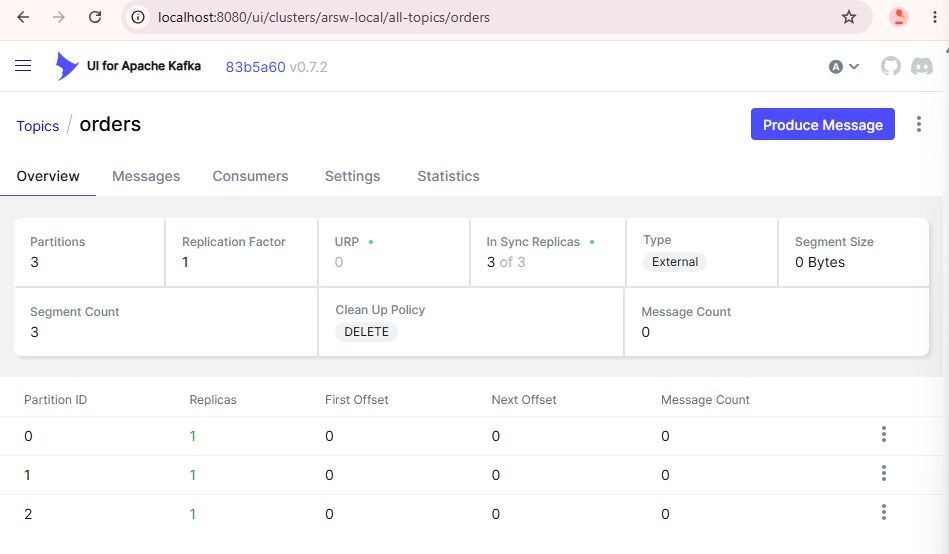
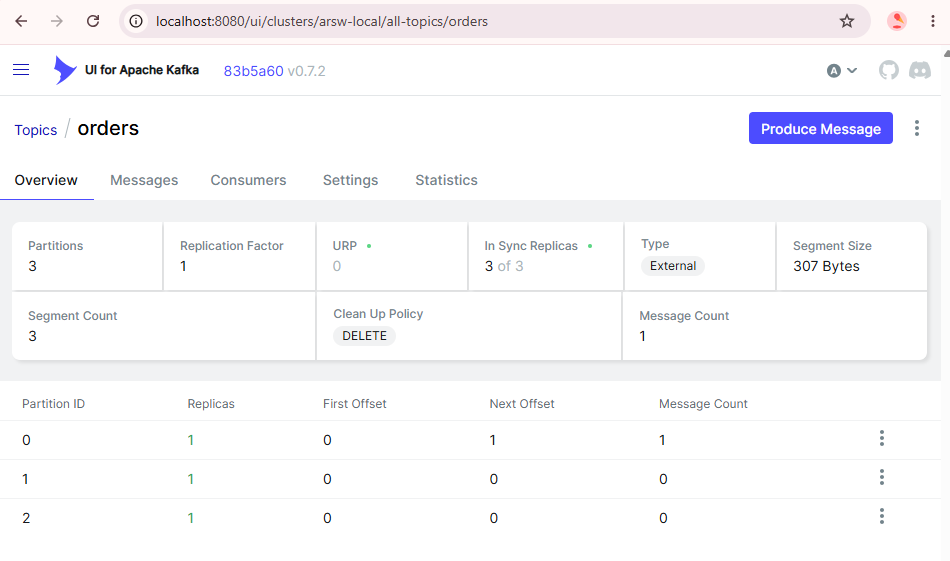
fix: kafka-listeners in docker-compose

diff --git a/src/main/java/edu/eci/arsw/kafka/producer/OrderEventProducer.java b/src/main/java/edu/eci/arsw/kafka/producer/OrderEventProducer.java
@@ -13,7 +13,16 @@ public class OrderEventProducer {
     }
 
     public void publishOrderCreated(OrderCreatedEvent event) {
-        kafkaTemplate.send("orders", event.getOrderId(), event);
-
+        kafkaTemplate.send("orders", event.getOrderId(), event)
+                .whenComplete((result, ex) -> {
+                    if (ex != null) {
+                        System.err.println("Error al publicar evento: " + ex.getMessage());
+                        ex.printStackTrace();
+                    } else {
+                        System.out.println("Evento publicado en partición "
+                                + result.getRecordMetadata().partition()
+                                + " offset " + result.getRecordMetadata().offset());
+                    }
+                });
     }
 }

diff --git a/README.md b/README.md
@@ -73,6 +73,6 @@ Topic : orders
 Clave : 
 Partición : 3 
 Consumidor : 
-Consumer Group :
+Consumer Group : inventory-service
 
 